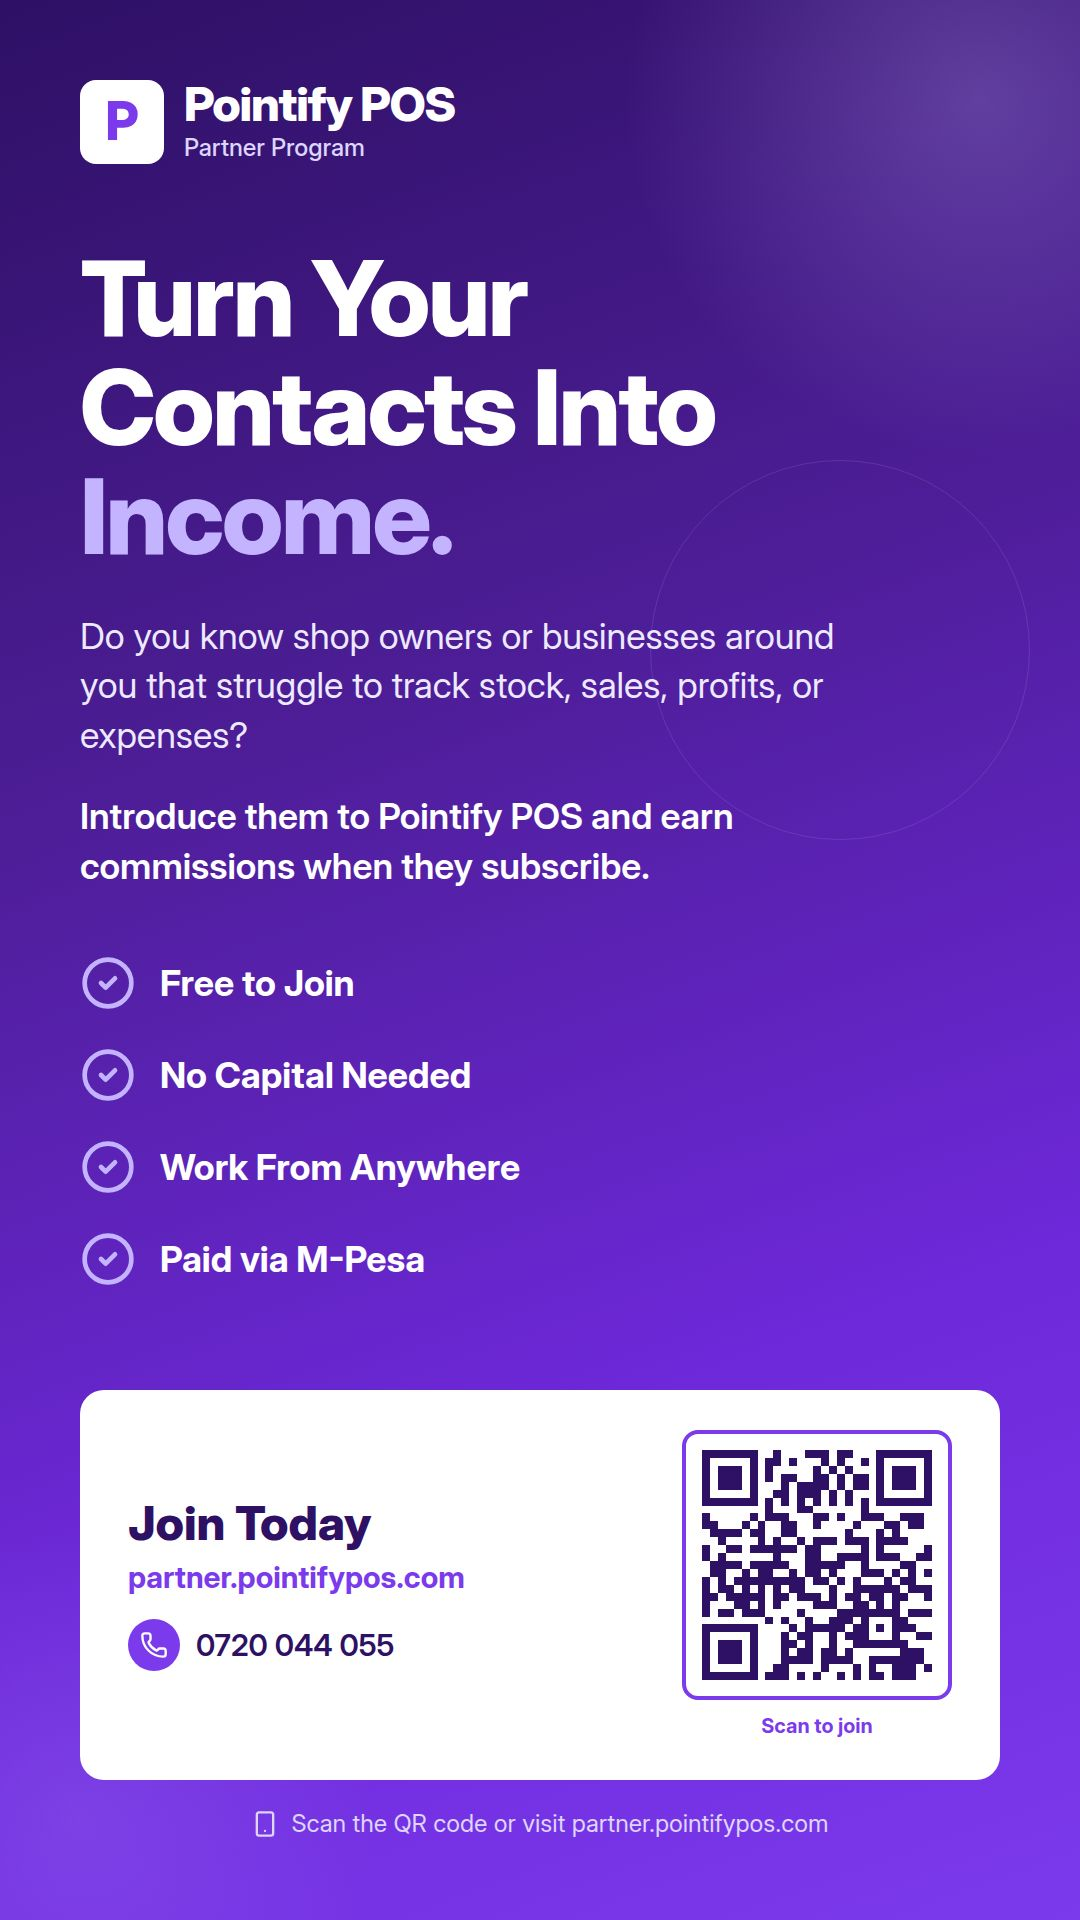
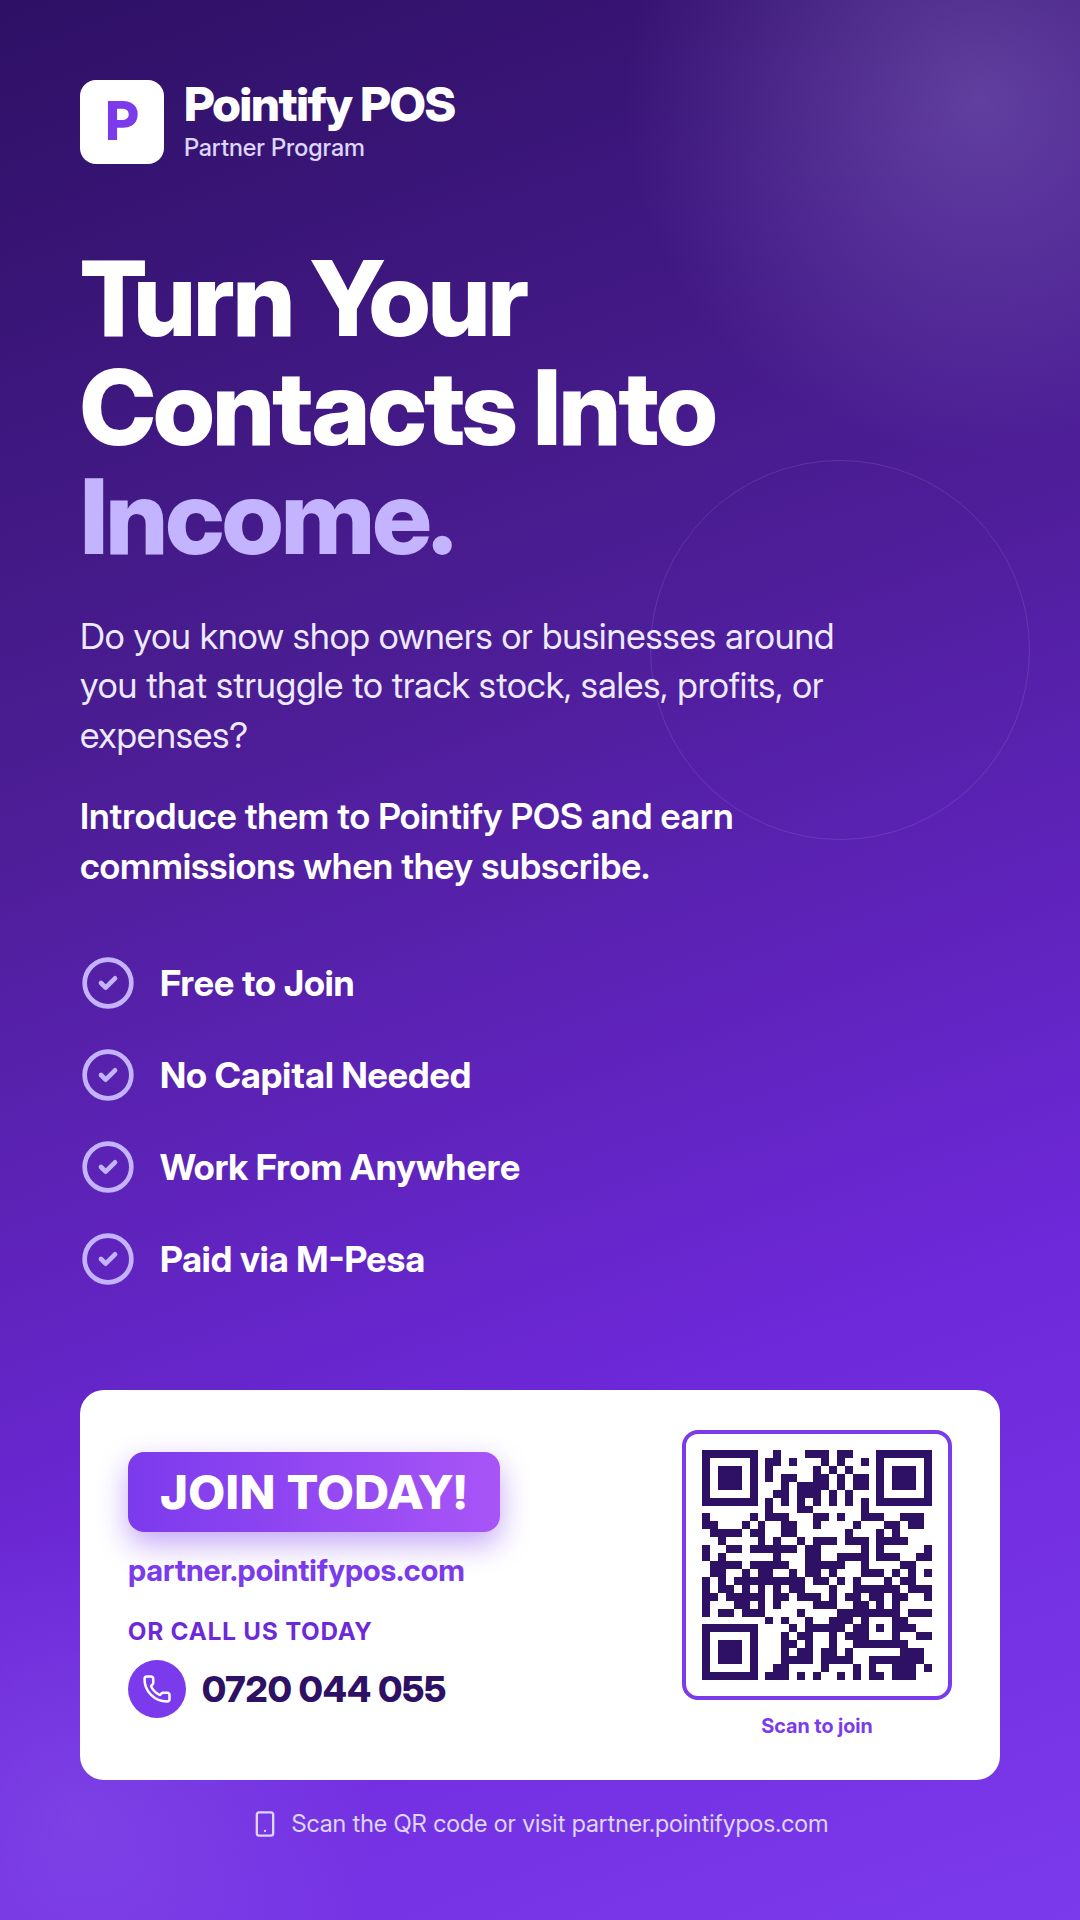
Improve poster design with dynamic elements and high-quality export
Add high-resolution export option and enhance call-to-action with gradient banner and bolder typography.

Replit-Commit-Author: Agent
Replit-Commit-Session-Id: 7881019f-e82f-4f27-b2d1-29d35c0b27c1
Replit-Commit-Checkpoint-Type: full_checkpoint
Replit-Commit-Event-Id: a14c741a-10e4-46c5-82d6-859619fc636e
Replit-Commit-Screenshot-Url: https://storage.googleapis.com/screenshot-production-us-central1/cb193285-7bf4-449f-9b0a-a237699dcd95/7881019f-e82f-4f27-b2d1-29d35c0b27c1/8KWnVn0
Replit-Helium-Checkpoint-Created: true

Changed region(s): [[0.0917, 0.75, 0.4889, 0.9062]]

diff --git a/artifacts/mockup-sandbox/src/components/mockups/partner-poster/PosterStatus.tsx b/artifacts/mockup-sandbox/src/components/mockups/partner-poster/PosterStatus.tsx
@@ -2,11 +2,15 @@ import { CheckCircle2, Phone, Smartphone } from "lucide-react";
 import qrUrl from "./qr.svg";
 
 export function PosterStatus() {
+  const scale = Number(
+    new URLSearchParams(window.location.search).get("scale") ?? "1",
+  );
   return (
     <div className="flex items-start justify-center bg-neutral-200">
       <div
         className="relative overflow-hidden text-white"
         style={{
+          zoom: scale,
           width: 1080,
           height: 1920,
           background:
@@ -110,21 +114,36 @@ export function PosterStatus() {
               style={{ color: "#2e1065" }}
             >
               <div>
-                <div className="text-5xl font-extrabold">Join Today</div>
                 <div
-                  className="mt-3 text-3xl font-bold"
+                  className="inline-block rounded-2xl px-8 py-4 text-5xl font-extrabold uppercase tracking-wide text-white"
+                  style={{
+                    background:
+                      "linear-gradient(90deg, #7c3aed 0%, #a855f7 100%)",
+                    boxShadow: "0 12px 30px rgba(124,58,237,0.45)",
+                  }}
+                >
+                  Join Today!
+                </div>
+                <div
+                  className="mt-5 text-3xl font-bold"
                   style={{ color: "#7c3aed" }}
                 >
                   partner.pointifypos.com
                 </div>
-                <div className="mt-6 flex items-center gap-4 text-3xl font-semibold">
+                <div
+                  className="mt-7 text-2xl font-bold uppercase tracking-wider"
+                  style={{ color: "#6d28d9" }}
+                >
+                  Or Call Us Today
+                </div>
+                <div className="mt-3 flex items-center gap-4 text-4xl font-extrabold">
                   <span
                     className="flex items-center justify-center rounded-full"
-                    style={{ width: 52, height: 52, background: "#7c3aed" }}
+                    style={{ width: 58, height: 58, background: "#7c3aed" }}
                   >
                     <Phone
                       className="text-white"
-                      style={{ width: 28, height: 28 }}
+                      style={{ width: 30, height: 30 }}
                     />
                   </span>
                   0720 044 055
